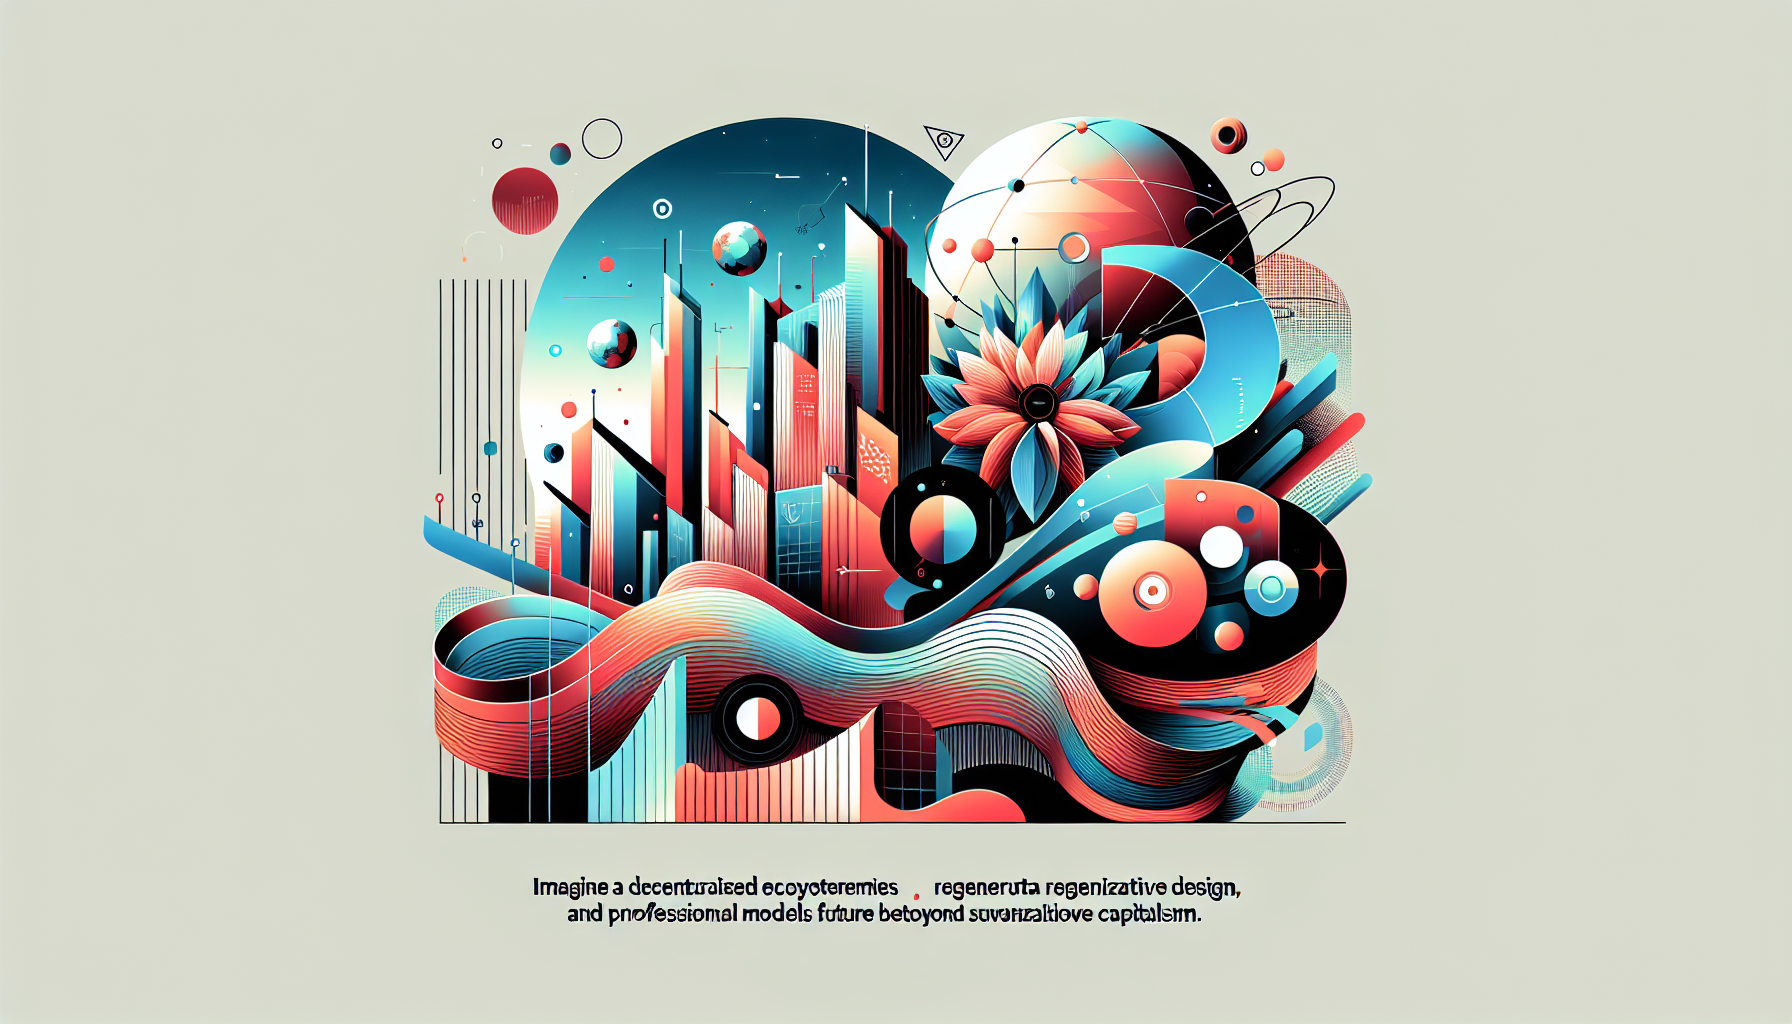
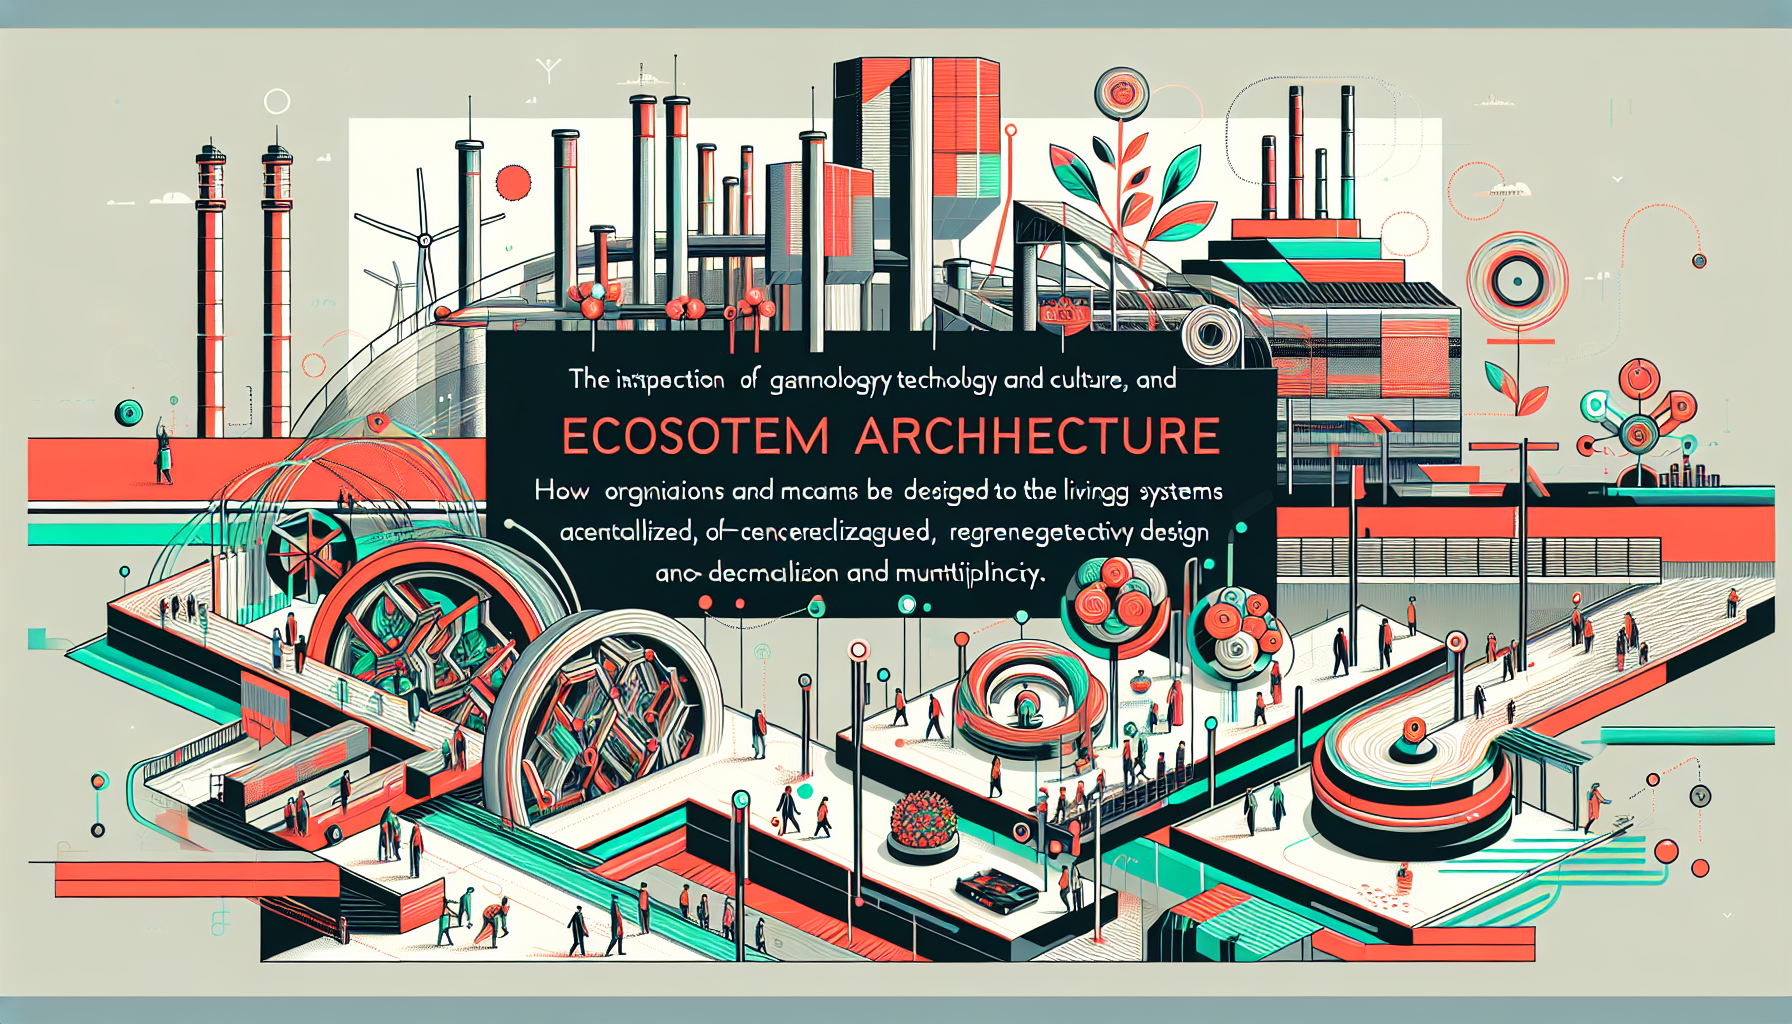
Pre-pull commit: preserving local changes

diff --git a/link/snyk-io-b67a29.md b/link/snyk-io-b67a29.md
@@ -1,0 +1,23 @@
+---
+status: draft
+title: >-
+  Your Clawdbot (Moltbot) AI Assistant Has Shell Access and One Prompt Injection
+  Away from Disaster
+url: 'https://snyk.io/articles/clawdbot-ai-assistant/'
+description: >-
+  An in-depth security analysis of Clawdbot (now Moltbot), an open-source AI
+  assistant with autonomous capabilities, examining critical vulnerabilities
+  including prompt injection, supply chain risks, and network exposure.
+keywords:
+  - AI security
+  - prompt injection
+  - agentic AI
+  - Clawdbot
+  - supply chain attacks
+domain: snyk.io
+capturedAt: '2026-02-01T07:38:01.214Z'
+source:
+  ref: 'matrix:!4wXe7ZxNeJ_k5RApmnAtQpEPmX4Br8ZCy1wB8MOR-MU'
+  label: test-rover-local
+---
+This article provides a comprehensive security analysis of Clawdbot, an open-source AI assistant created by Peter Steinberger that has gained significant adoption among developers. Unlike traditional chatbots, Clawdbot operates as a functional agent with access to shell commands, email, calendars, messaging platforms, and file systems. The article examines five major security concerns: prompt injection attacks that exploit untrusted data sources like emails to manipulate the agent into performing unauthorized actions; supply chain vulnerabilities through the SKILLS ecosystem and community-contributed dependencies; privacy risks from LLM providers' data handling practices; network security issues with publicly exposed gateway components; and AI model layer considerations. While acknowledging Clawdbot's commendable security-by-default measures and transparent documentation, the article emphasizes that securing agentic AI requires new approaches beyond traditional application security, including continuous red teaming, AI Bill of Materials scanning, runtime protection controls, and MCP server security scanning.

diff --git a/topic/communication-of-vision.md b/topic/communication-of-vision.md
@@ -5,14 +5,13 @@ Effectively communicating transformative ideas requires more than presenting con
 
 ## Keywords
 
-- work culture
-- play
-- creativity
-- exploration
-- experimentation
-- meaningful work
-- intrinsic motivation
-- human flourishing
+- AI assistants
+- chatbot design
+- conversational AI
+- user interaction
+- viral systems
+- assistant architecture
+- AI deployment
 
 ## Sources
 
@@ -26,3 +25,5 @@ Effectively communicating transformative ideas requires more than presenting con
 - Economy of Abundance (linkedin-economy-of-abundance-20260123) [social-post] <linkedin-economy-of-abundance|d57125024128dfc47bb9893c45ccfa6af3694144a6194e4ef711f1763efe1189>
 - Urging New Institutions (urging-new-institutions) [post] <Urging New Institutions|1f4088adde6a9835cda52d0669a4caf140be8086aa0355322758747d77197d94>
 - Future of Work is Play (linkedin-future-of-work-is-play-20260126) [social-post] <linkedin-future-of-work-is-play-20260124|814fb48c5b1dc26d19d3b07ae6dab31515221485dba26b76ef1df8b7ef6839f0>
+- www.forbes.com (www-forbes-com-9aed58) [link] <www-forbes-com-9aed58|d5760117ba457a52119d16d6d2e2822cdaea3564577955a28497f3692618aac2>
+- www.wired.com (www-wired-com-b0b9cf) [link] <www-wired-com-b0b9cf|9fc4c2147fde7187da7e1581a829d6624892768041958204f4f36c8f732e19f4>

diff --git a/topic/ai-winters-as-evolutionary-selection.md b/topic/ai-winters-as-evolutionary-selection.md
@@ -5,16 +5,19 @@ Historical AI winters (1974-1980 and 1987-1993) are reframed not as failures but
 
 ## Keywords
 
-- narrow AI
-- specialized systems
-- single-purpose
-- task automation
-- AI systems
-- general AI
-- practical applications
-- problem-solving
+- AI agents
+- agent networks
+- autonomous systems
+- decentralized systems
+- agent communication
+- ecosystem architecture
+- distributed intelligence
+- social networks
+- coordination
+- emergent behavior
 
 ## Sources
 
 - Forgotten Futures (forgotten-futures) [deck] <Forgotten Futures|90f153ca541907abb5d486ff820e33c1d4b2b4052df0018d6a4dbb375cb5a93e>
 - Becoming Narrow Minded (becoming-narrow-minded) [deck] <Becoming Narrow Minded|084061fe491c56baaa5f7435a56f558085e8c61d122af43aadcfd649d5dba62e>
+- www.forbes.com (www-forbes-com-9aed58) [link] <www-forbes-com-9aed58|d5760117ba457a52119d16d6d2e2822cdaea3564577955a28497f3692618aac2>

diff --git a/series/ecosystem-architecture.md b/series/ecosystem-architecture.md
@@ -1,8 +1,9 @@
 ---
 title: Ecosystem Architecture
 slug: ecosystem-architecture
+coverImageId: ecosystem-architecture-cover
 ---
 # Ecosystem Architecture
 
 ## Description
-
+Explore how organizations and communities can be designed as living systems rather than machines. This series unpacks ecosystem architecture—a practice that embraces decentralization, regenerative design, and multiplicity to build inhabitable futures against surveillance capitalism and rigid hierarchies. From Shenzhen's peer-to-peer manufacturing to permaculture principles, discover frameworks for creating thriving, non-hierarchical structures that work with complexity instead of against it.

diff --git a/series/public-badges.md b/series/public-badges.md
@@ -1,8 +1,9 @@
 ---
 title: Public Badges
 slug: public-badges
+coverImageId: public-badges-cover
 ---
 # Public Badges
 
 ## Description
-
+Public Badges transforms how organizations communicate trust and values in digital spaces by making implicit expectations explicit. This series explores how badge systems can align stakeholder values, rebuild trust without restrictive security measures, and create transparent frameworks where organizations prove their commitments rather than merely claiming them. Discover how small, visible signals can fundamentally reshape how communities relate to the institutions they depend on.

diff --git a/series/new-institutions.md b/series/new-institutions.md
@@ -1,8 +1,9 @@
 ---
 title: New Institutions
 slug: new-institutions
+coverImageId: new-institutions-cover
 ---
 # New Institutions
 
 ## Description
-
+Institutions are broken, but the tools to rebuild them are here. This series explores how decentralized systems, aligned values, and new social contracts can create organizations that actually work—moving beyond hierarchical structures toward living systems that adapt, trust, and thrive. Discover what comes next when we stop defending the old and start building what's actually inhabitable.

diff --git a/link/www-forbes-com-9aed58.md b/link/www-forbes-com-9aed58.md
@@ -1,0 +1,14 @@
+---
+status: pending
+title: www.forbes.com
+url: >-
+  https://www.forbes.com/sites/guneyyildiz/2026/01/31/inside-moltbook-the-social-network-where-14-million-ai-agents-talk-and-humans-just-watch/
+description: ''
+keywords: []
+domain: www.forbes.com
+capturedAt: '2026-02-01T07:32:37.845Z'
+source:
+  ref: 'matrix:!4wXe7ZxNeJ_k5RApmnAtQpEPmX4Br8ZCy1wB8MOR-MU'
+  label: test-rover-local
+---
+

diff --git a/link/www-wired-com-b0b9cf.md b/link/www-wired-com-b0b9cf.md
@@ -1,0 +1,13 @@
+---
+status: pending
+title: www.wired.com
+url: 'https://www.wired.com/story/clawdbot-moltbot-viral-ai-assistant/'
+description: ''
+keywords: []
+domain: www.wired.com
+capturedAt: '2026-02-01T07:35:31.131Z'
+source:
+  ref: 'matrix:!4wXe7ZxNeJ_k5RApmnAtQpEPmX4Br8ZCy1wB8MOR-MU'
+  label: test-rover-local
+---
+

diff --git a/social-post/linkedin-organizations-as-ecosystems.md b/social-post/linkedin-organizations-as-ecosystems.md
@@ -1,8 +1,10 @@
 ---
 title: Organizations as Ecosystems
 platform: linkedin
-status: draft
+status: published
+coverImageId: organizations-as-ecosystems-cover-image
 queueOrder: 3
+publishedAt: '2026-02-01T07:27:12.125Z'
 retryCount: 0
 ---
 We've been building organizations like machines for centuries.
